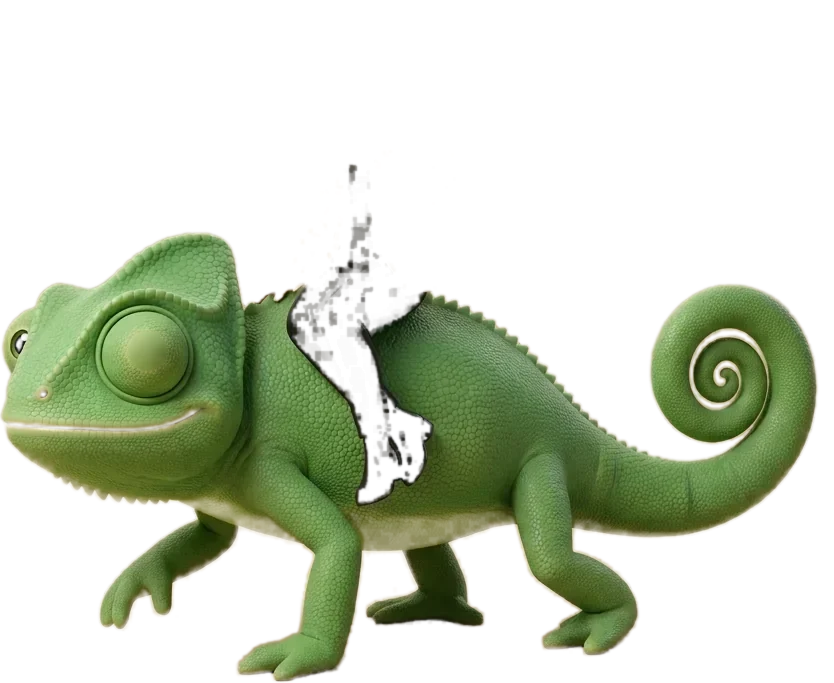
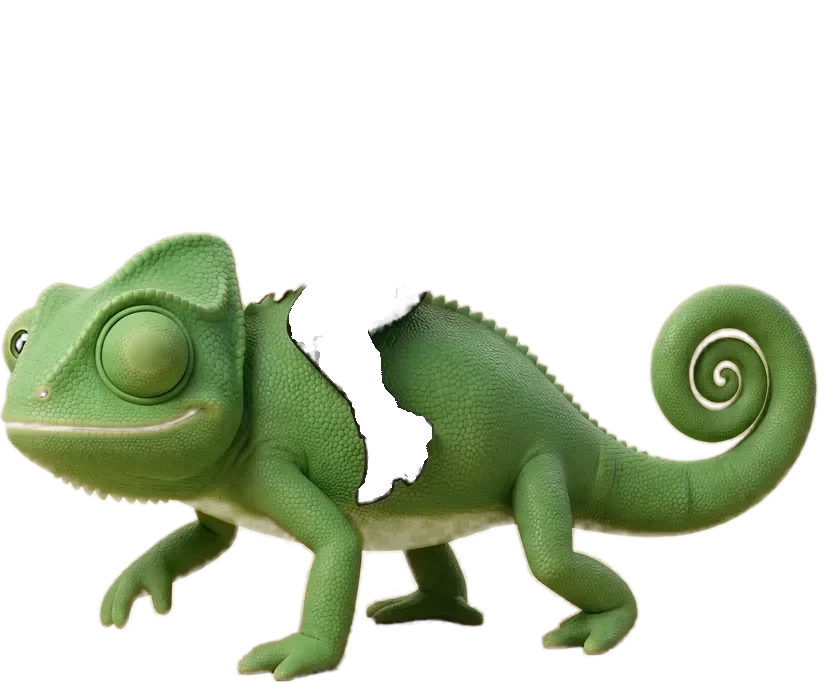
Bella hero: walking gait, torso sway, moving eyes, blinks and multilingual hellos
Claude-Session: https://claude.ai/code/session_01ARHMmBCy5vhygGRZpe3Mis

Changed region(s): [[0.3429, 0.3075, 0.53, 0.7072], [0.4053, 0.246, 0.4365, 0.2767]]

diff --git a/bella.html b/bella.html
@@ -153,8 +153,26 @@
   .rider-body { position: relative; }
   .rider img { display: block; width: 100%; height: auto; }
   .rider-tint { position: absolute; inset: 0; filter: hue-rotate(var(--hue, 0deg)) saturate(var(--sat, 1)); transition: filter 1s var(--ease); }
-  .rider.walking .rider-body { animation: walk .55s ease-in-out infinite alternate; }
-  @keyframes walk { from { transform: translateY(0) rotate(0); } to { transform: translateY(-7px) rotate(-.6deg); } }
+  /* The chameleon always walks; scrolling makes it walk faster. Bella rides the gait. */
+  .rider-body { animation: gait 1.25s ease-in-out infinite; }
+  .rider.walking .rider-body { animation-duration: .6s; }
+  @keyframes gait { 0%, 100% { transform: translateY(0) rotate(0); } 25% { transform: translateY(-6px) rotate(-.5deg); } 50% { transform: translateY(0) rotate(0); } 75% { transform: translateY(-5px) rotate(.5deg); } }
+  .bl-torso, .bl-head { position: absolute; inset: 0; pointer-events: none; }
+  .bl-torso > img, .bl-head > img { position: absolute; inset: 0; width: 100%; height: auto; display: block; }
+  .bl-torso { transform-origin: 43.17% 39.24%; animation: ride 1.25s ease-in-out -.3s infinite; }
+  .rider.walking .bl-torso { animation-duration: .6s; }
+  @keyframes ride { 0%, 100% { rotate: -1.6deg; } 50% { rotate: 1.6deg; } }
+  .bl-head { transform-origin: 42.2% 20.5%; rotate: calc(var(--hr, 0) * 1deg); translate: calc(var(--hx, 0) * 1px) 0; transition: rotate .5s cubic-bezier(.3,1.4,.5,1), translate .5s var(--ease); }
+  .rider.nod .bl-head { animation: nod .6s ease-in-out; }
+  @keyframes nod { 40% { transform: translateY(1.5%) rotate(2deg); } }
+  .bl-eye { position: absolute; overflow: hidden; border-radius: 50%; background: radial-gradient(ellipse at 50% 70%, #F4EDE4, #D9CBBE); box-shadow: inset 0 2px 2px rgba(60,30,20,.45); }
+  .bl-l { left: 40.29%; top: 9.52%; width: 1.8%; height: 1.61%; }
+  .bl-r { left: 44.6%; top: 9.08%; width: 2.04%; height: 1.61%; }
+  .bl-iris { position: absolute; max-width: none; transform: translate(calc(var(--gx, 0) * 16%), calc(var(--gy, 0) * 9%)); transition: transform .25s var(--ease); }
+  .bl-l .bl-iris { left: 13.3%; top: -9.1%; width: 93.3%; height: 127.3%; }
+  .bl-r .bl-iris { left: 0; top: -27.3%; width: 88.2%; height: 136.4%; }
+  .bl-lid { position: absolute; inset: -10% -5%; background: linear-gradient(180deg, #D9A88E, #E6B79D 80%); border-bottom: 1.5px solid #3A2416; transform: translateY(-110%); transition: transform .07s ease-in; }
+  .rider.blink .bl-lid { transform: translateY(0); }
   .rider-shadow { position: absolute; left: 12%; right: 10%; bottom: -1%; height: 7%; border-radius: 50%; background: radial-gradient(closest-side, rgba(60,40,20,.22), transparent); z-index: -1; }
   .scene-card {
     position: absolute; z-index: 4; left: var(--gutter); bottom: 6vh; width: min(380px, calc(100% - 2 * var(--gutter)));
@@ -204,7 +222,7 @@
   .rider-body { cursor: pointer; }
   .rider-hit { position: absolute; left: 0; right: 0; top: 38%; bottom: 0; border: 0; background: transparent; cursor: pointer; border-radius: 40% 40% 20% 20%; }
   .rider-hit:focus-visible { outline: 2px dashed var(--ink); outline-offset: -6px; }
-  .rider-hand { position: absolute; inset: 0; transform-origin: 55.88% 22.69%; pointer-events: none; }
+  .rider-hand { position: absolute; inset: 0; width: 100%; height: auto; transform-origin: 55.88% 22.69%; pointer-events: none; }
   .rider.waving .rider-hand { animation: wave 1.5s ease-in-out; }
   @keyframes wave { 0%, 100% { transform: rotate(0); } 15% { transform: rotate(-14deg); } 32% { transform: rotate(10deg); } 50% { transform: rotate(-12deg); } 68% { transform: rotate(9deg); } 84% { transform: rotate(-5deg); } }
   .bella-hit { position: absolute; left: 43%; top: 4%; width: 24%; height: 56%; border: 0; background: transparent; cursor: pointer; border-radius: 40%; z-index: 2; }
@@ -301,7 +319,8 @@
     .w-stats { border-radius: 90px 90px 30px 30px; }
     .dock-btn { padding: 10px 16px; font-size: .88rem; }
   }
-  @media (prefers-reduced-motion: reduce) { .lamp, .portrait { animation: none; } }
+  @media (prefers-reduced-motion: reduce) {
+    .rider-body, .bl-torso { animation: none; } .lamp, .portrait { animation: none; } }
 
   /* Problem */
   .problem-grid { display: grid; grid-template-columns: minmax(0, 1fr) minmax(0, 1fr); gap: clamp(32px, 6vw, 80px); align-items: start; }
@@ -985,7 +1004,15 @@
           <span class="rider-shadow" aria-hidden="true"></span>
           <img src="bella-assets/bella-chameleon.webp" width="834" height="683" alt="Bella waving from the back of a friendly chameleon">
           <img class="rider-tint" src="bella-assets/chameleon-tint.webp" width="834" height="683" alt="" aria-hidden="true">
-          <img class="rider-hand" src="bella-assets/bella-hand.webp" width="834" height="683" alt="" aria-hidden="true">
+          <div class="bl-torso" aria-hidden="true">
+            <img src="bella-assets/bella-torso.webp" width="834" height="683" alt="">
+            <div class="bl-head">
+              <img src="bella-assets/bella-head.webp" width="834" height="683" alt="">
+              <span class="bl-eye bl-l"><img class="bl-iris" src="bella-assets/iris-l.webp" alt=""><i class="bl-lid"></i></span>
+              <span class="bl-eye bl-r"><img class="bl-iris" src="bella-assets/iris-r.webp" alt=""><i class="bl-lid"></i></span>
+            </div>
+            <img class="rider-hand" src="bella-assets/bella-hand.webp" width="834" height="683" alt="">
+          </div>
           <span class="eye" aria-hidden="true"><i></i></span>
           <span class="bella-say" id="bella-say" aria-live="polite"></span>
           <button type="button" class="bella-hit" id="bella-hit" aria-label="Say hi to Bella"></button>
@@ -2461,25 +2488,44 @@
   // ===== Bella waves and says hi in the current guest's language =====
   (function initWave() {
     var rider = document.getElementById('rider'), hit = document.getElementById('bella-hit'), say = document.getElementById('bella-say');
-    var story = document.getElementById('story'); if (!rider || !hit) return;
-    var HI = { hinglish: 'Namaste! Main Bella hoon.', en: 'Hi! I’m Bella.', hi: 'नमस्ते! मैं बेला हूँ।', fr: 'Bonjour ! Je suis Bella.', de: 'Hallo! Ich bin Bella.', es: '¡Hola! Soy Bella.', pt: 'Olá! Eu sou a Bella.', ru: 'Привет! Я Белла.', ar: 'مرحبًا! أنا بيلا.', ja: 'こんにちは！ベラです。', ko: '안녕하세요! 벨라예요.', zh: '你好！我是 Bella。', th: 'สวัสดีค่ะ! ฉันคือเบลล่า' };
-    var hideT = null, busy = false;
-    function wave(talk) {
-      if (busy && !talk) return; busy = true;
-      rider.classList.remove('waving'); void rider.offsetWidth; rider.classList.add('waving');
-      setTimeout(function () { busy = false; }, 1500);
-      if (talk && say) {
-        var lang = (story && story.dataset.lang) || 'en';
-        say.textContent = HI[lang] || HI.en; say.dir = lang === 'ar' ? 'rtl' : 'auto';
-        say.classList.add('on'); clearTimeout(hideT); hideT = setTimeout(function () { say.classList.remove('on'); }, 2600);
-      }
+    var head = rider && rider.querySelector('.bl-head'); if (!rider || !hit) return;
+    var GREET = [
+      ['hinglish', 'Namaste! Main Bella hoon.'], ['en', 'Hello! I’m Bella.'], ['es', '¡Hola! Soy Bella.'], ['fr', 'Bonjour ! Je suis Bella.'],
+      ['ja', 'こんにちは！ベラです。'], ['ar', 'مرحبًا! أنا بيلا.'],
+      ['it', 'Ciao! Sono Bella.'], ['de', 'Hallo! Ich bin Bella.'], ['hi', 'नमस्ते! मैं बेला हूँ।'], ['ko', '안녕하세요! 벨라예요.']
+    ];
+    var start = isIndia() ? 0 : Math.max(0, GREET.findIndex(function (g) { return g[0] === guessLang(); })); if (!isIndia() && start === 0) start = 1;
+    var gi = start - 1, hideT = null, count = 0;
+    function cls(c, ms) { rider.classList.remove(c); void rider.offsetWidth; rider.classList.add(c); setTimeout(function () { rider.classList.remove(c); }, ms); }
+    function greet() {
+      gi = (gi + 1) % GREET.length; count++;
+      say.textContent = GREET[gi][1]; say.dir = GREET[gi][0] === 'ar' ? 'rtl' : 'auto'; say.lang = GREET[gi][0] === 'hinglish' ? 'hi-Latn' : GREET[gi][0];
+      say.classList.add('on'); clearTimeout(hideT); hideT = setTimeout(function () { say.classList.remove('on'); }, 2800);
+      cls('nod', 650);
+      if (count % 2 === 1) cls('waving', 1500);
     }
-    hit.addEventListener('click', function () { wave(true); });
-    hit.addEventListener('pointerenter', function (e) { if (e.pointerType === 'mouse') wave(true); });
+    // eyes and head follow the pointer; with no pointer she glances around on her own
+    var lastMove = 0;
+    function look(nx, ny) {
+      nx = Math.max(-1, Math.min(1, nx)); ny = Math.max(-1, Math.min(1, ny));
+      rider.style.setProperty('--gx', nx.toFixed(2)); rider.style.setProperty('--gy', ny.toFixed(2));
+      head.style.setProperty('--hr', (nx * 4).toFixed(2)); head.style.setProperty('--hx', (nx * 2).toFixed(1));
+    }
+    window.addEventListener('pointermove', function (e) {
+      if (e.pointerType && e.pointerType !== 'mouse') return;
+      lastMove = Date.now();
+      var r = rider.getBoundingClientRect(), ex = r.left + r.width * 0.43, ey = r.top + r.height * 0.1;
+      look((e.clientX - ex) / (window.innerWidth * 0.35), (e.clientY - ey) / (window.innerHeight * 0.4));
+    }, { passive: true });
     if (!reduceMotion) {
-      setTimeout(function () { wave(true); }, 900);
-      setInterval(function () { if (!document.hidden) wave(false); }, 7000);
+      var G = [[0, 0], [-0.9, 0.2], [0, 0], [0.9, -0.2], [0.4, 0.8], [0, 0]], gk = 0;
+      setInterval(function () { if (Date.now() - lastMove > 3000) { gk = (gk + 1) % G.length; look(G[gk][0], G[gk][1]); } }, 1700);
+      (function blink() { setTimeout(function () { cls('blink', 130); if (Math.random() < .25) setTimeout(function () { cls('blink', 120); }, 260); blink(); }, 2200 + Math.random() * 2800); })();
+      setTimeout(greet, 900);
+      setInterval(function () { if (!document.hidden) greet(); }, 3800);
     }
+    hit.addEventListener('click', greet);
+    hit.addEventListener('pointerenter', function (e) { if (e.pointerType === 'mouse') greet(); });
   })();
 
   // ===== FAQ: the floating scene follows the pointer; searching filters questions =====

diff --git a/BELLA_GOOGLE_AI_STUDIO_PROMPT.md b/BELLA_GOOGLE_AI_STUDIO_PROMPT.md
@@ -42,7 +42,11 @@ Add a new page to my existing website (redflaghomes.in) called "Bella". Do not c
 - CO-HOST CHAT DEMO (languages section): a small chat where the visitor can tap example requests or type their own; Bella shows a typing indicator, then "✓ Done. …" with a reply matched to keywords (dates, prices, check-in, Wi-Fi, reviews, cleaning). Label it "Demo. In your account, Bella does this on your real listing."
 - SAVINGS CALCULATOR ("See what you keep.", just before pricing): sliders for nightly rate, nights booked a month and listings (1–5). Show what a 20% property manager would take a month, the matching Bella monthly plan price (Solo for 1, Growth for 2–3, Pro for 4–5) and "You keep" the difference, in the currency chosen in the pricing switch (INR range ₹1,000–₹20,000, USD $30–$600). The button "Get Bella <plan>" opens the same pre-payment questions for that plan. Note: "An estimate from the numbers you enter. Your real earnings depend on your bookings."
 - SMALL MOTION: the three host characters sway gently; the final "Hosted by Bella" picture tilts slightly towards the pointer. Turn all of this off when the visitor prefers reduced motion.
-- BELLA WAVES AND TALKS: Bella's raised hand is a separate layer (bella-assets/bella-hand.webp, same size as bella-chameleon.webp) that rotates around her wrist (55.88% from the left, 22.69% from the top) in a short wave. She waves when the page opens, every 7 seconds, when the pointer moves over her, and when she is tapped; on hover or tap a white speech bubble next to her head says hello in the current guest moment's language (for example "Namaste! Main Bella hoon.", "Bonjour ! Je suis Bella.", "こんにちは！ベラです。").
+- BELLA IS ALIVE (layered artwork, every layer the same 834×683 size as bella-chameleon.webp, stacked exactly on top of each other): bella-chameleon.webp is the chameleon plus Bella's legs and boots; bella-torso.webp is her upper body; bella-head.webp sits inside the torso layer; iris-l.webp and iris-r.webp are her irises; bella-hand.webp is her raised hand, also inside the torso layer.
+  - Walking: the whole rider always bobs in a 1.25-second chameleon gait (up and slightly tilted, down, up tilted the other way). While the visitor scrolls the hero, the gait speeds up to 0.6 seconds. Her torso sways ±1.6° around her hips (43.17% from the left, 39.24% from the top), slightly out of step with the gait, so she rides the chameleon.
+  - Eyes: two small oval eye windows (left eye at left 40.29%, top 9.52%, 1.8% × 1.61% of the image; right eye at left 44.6%, top 9.08%, 2.04% × 1.61%) hold the irises, which move inside them. On desktop her eyes and head (a tilt of up to 4° around her neck, 42.2% / 20.5%) follow the mouse. Without a mouse she glances left, right and down on her own every 1.7 seconds. Skin-coloured eyelids blink at random every 2–5 seconds, sometimes twice.
+  - Greeting: a white speech bubble next to her head cycles through hellos every 3.8 seconds, and on tap or mouse hover. The cycle is "Namaste! Main Bella hoon." → "Hello! I'm Bella." → "¡Hola! Soy Bella." → "Bonjour ! Je suis Bella." → Japanese → Arabic (right-to-left) → Italian → German → Hindi → Korean. Visitors in India start with Namaste; everyone else starts in their browser language, or English. With each hello she nods her head, and on every other hello her hand (rotating around the wrist at 55.88% / 22.69%) waves.
+  - With prefers-reduced-motion, no gait, sway, glancing or automatic greetings: she only greets on tap.
 - FAQ (blue-violet 3D style): a section with a blue-to-violet gradient background. Above a dark navy rounded card, a floating scene: a large extruded 3D question mark (layered shadows plus a glossy highlight) standing on a teal "goo" blob, glossy teal, violet and blue orbs and a white chat bubble with three dots. The scene floats gently and shifts in depth with the pointer; opening a question makes the question mark bounce and the chat bubble's dots blink. The card has a small "FAQ" chip, the title "Frequently asked questions", a striped divider, a short line, a search box that filters the questions as you type (with a "No question matches…" message), and accordion items as glassy rows with a round blue + button that turns into ×. Only one answer is open at a time.
 - NAMING: never use the word "Airbnb" anywhere on the page, in code comments or in the copy. Always say "bnb" (e.g. "bnb support", "bnb claims", "your existing bnb account", "the bnb platform makes the final decision").
 - HIGHLIGHTS DASHBOARD (replaces the 4-tile strip, styled like a glassy smart-device dashboard): a dusk desert scene (soft purple-to-sand gradient, layered dunes, three glowing amber lamp orbs that pulse) with frosted dark-glass widgets floating on it:
